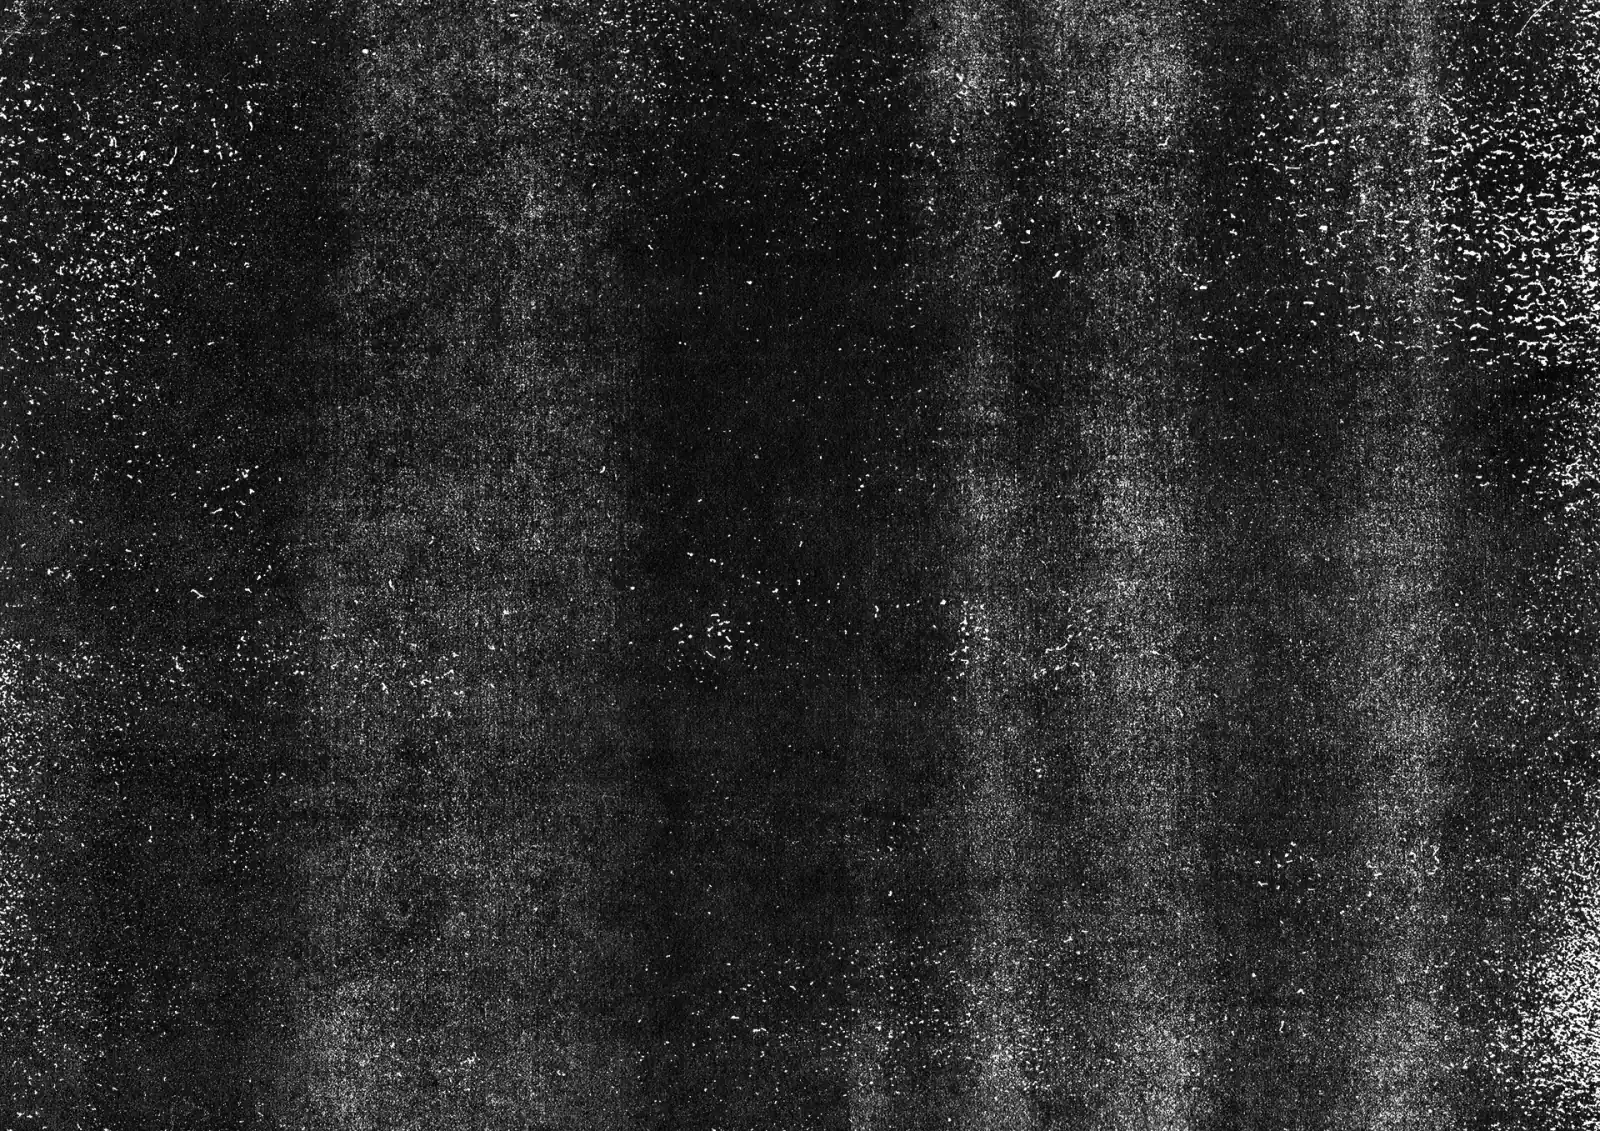
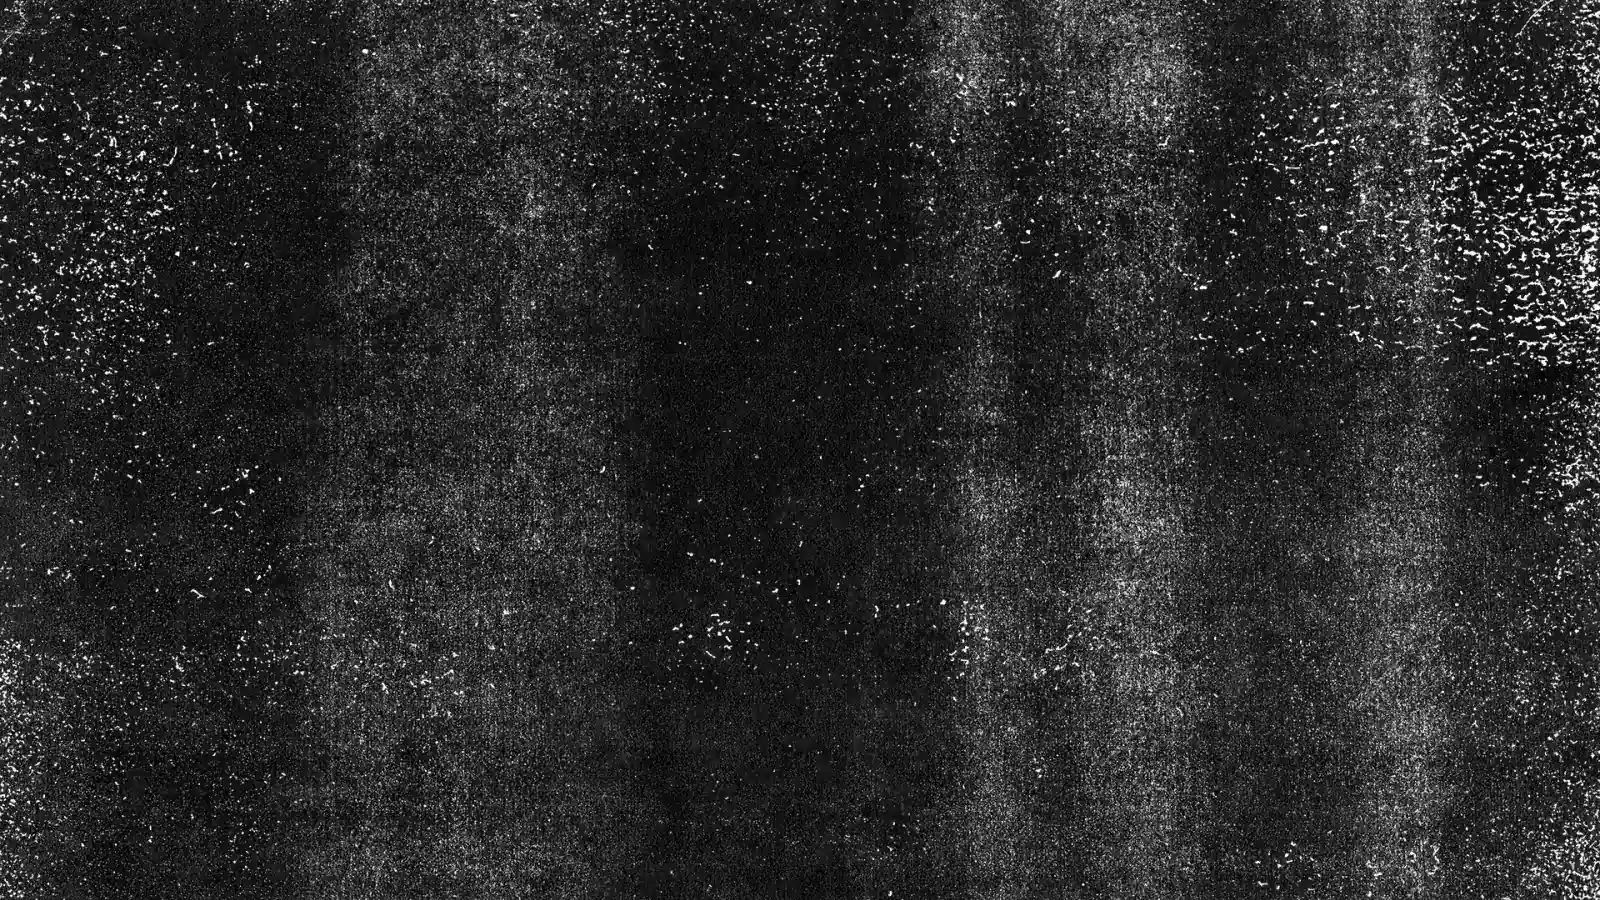
perf(theming): re-encode and re-crop the 1600w grain tiers
394 KB to 252 KB each, via a vertical crop to 1600x900 (from 1600x1131) plus a heavier encode. Checked against the previous encode at 6x contrast: same toner-drag structure, no banding or blocking introduced.

Side effect worth knowing: this tier is now 16:9 while the others stay ~1.41:1, so `cover` upscales it further on tall windows — 1.33x at 1000x1200 and 1.56x at 800x1400, against 1.06x and 1.24x before. Grain reads slightly coarser there; accepted for noise at opacity 0.125-0.25.

Updates the figures this makes stale in theming.md and caching.md, and closes out caching.md's outstanding-work note.

diff --git a/docs/caching.md b/docs/caching.md
@@ -15,7 +15,7 @@ are the textbook case for `immutable`.
 Under Netlify's default, the browser instead had to send a conditional request for each of them on
 **every single navigation** and wait for a `304 Not Modified` before it could use the copy already
 sitting in its cache. Per page load that meant a round trip for the 192KB stylesheet, both woff2
-faces (129KB + 104KB), and the ~400KB grain texture.
+faces (129KB + 104KB), and the grain texture (394KB at the time, 252KB since).
 
 What that looked like, per engine:
 
@@ -65,11 +65,14 @@ curl -s https://www.furioursus.dev/ | grep -oE '/_astro/fonts/[^)"]*' | sort -u
 The file lives in `public/`, so it is copied verbatim into `dist/` at build time — same mechanism as
 `public/_redirects`, see [navigation](./navigation.md).
 
-## Still outstanding: the grain is heavy
+## The grain was heavy, and has been cut
 
-Caching stops the texture being re-fetched, but a **first** visit still pays ~400KB for the desktop
-grain tier (`grain-*-1600w.webp`), and a cold cache will still show one flash. A noise texture does
-not intrinsically need to be a full-bleed 1600px image — a small seamless tile with
-`background-repeat`, or a lower-quality re-encode (noise hides compression artefacts extremely well),
-would cut it by an order of magnitude. That is a design decision rather than a bug fix, so it has
-been left alone; see [theming](./theming.md) for how the tiers are chosen.
+Caching stops the texture being re-fetched, but a **first** visit still pays for it in full, and the
+desktop tier was 394 KB. It has since been re-encoded and re-cropped to 1600x900, bringing it to
+252 KB with no visible quality loss — see [theming](./theming.md) for the canvas change and its
+effect on `cover`.
+
+Further reduction is possible but is a design decision rather than a bug fix: a small seamless tile
+with `background-repeat` would be an order of magnitude smaller again, at the cost of the
+directional toner-drag structure that `cover` on one large image exists to preserve. `theming.md`
+covers why that trade was made the way it was.

diff --git a/docs/theming.md b/docs/theming.md
@@ -127,10 +127,22 @@ There used to be a third tier serving the full-res `grain-{light,dark}.webp` (19
 combined came to 138 KB — and it cost 1.87x more per pixel than any other tier. Re-encoding confirmed
 quality can't recover that (grain is incompressible noise; even q=60 still cost 863 KB), so
 resolution was the only lever. Deleting the tier lets 40rem-and-up upscale the 1600w file instead:
-**394 KB instead of 1058 KB, a 664 KB saving per desktop page view**, and invisible on a noise
+**252 KB instead of 1058 KB, an 806 KB saving per desktop page view**, and invisible on a noise
 texture rendered at `opacity: 0.25` behind all content. Note the breakpoint was `64rem` = 1024px, so
 this was hitting every laptop, not just large displays. The full-res files stay in `src/assets/` as
 the masters the tiers are generated from; nothing references them, so they no longer ship.
+
+The 1600w tier was later re-encoded and re-cropped to **1600x900** (from 1600x1131), taking it from
+394 KB to 252 KB. The crop is vertical — same texture, less of it — so the toner-drag structure the
+`cover` approach exists to preserve is untouched; verified at 6x contrast against the previous
+encode, with no banding or blocking introduced.
+
+The side effect is that this tier is now 16:9 while the others stay ~1.41:1, and `cover` upscales
+against whichever axis is short. On ordinary landscape windows that is a wash (1.05x vs 0.94x at
+1512x945; identical at 1920x1080), but a tall desktop window upscales it further than before —
+1.33x at 1000x1200, 1.56x at 800x1400, against 1.06x and 1.24x for the old canvas. The grain reads
+slightly coarser there. Accepted: it is noise at `opacity: 0.125`-`0.25`, and tall-and-narrow desktop
+windows are rare. Worth knowing before re-cropping any tier further.
 
 Under 40rem also gets an
 `orientation: portrait` variant (`grain-{light,dark}-portrait.webp`), cropped and rotated from the
